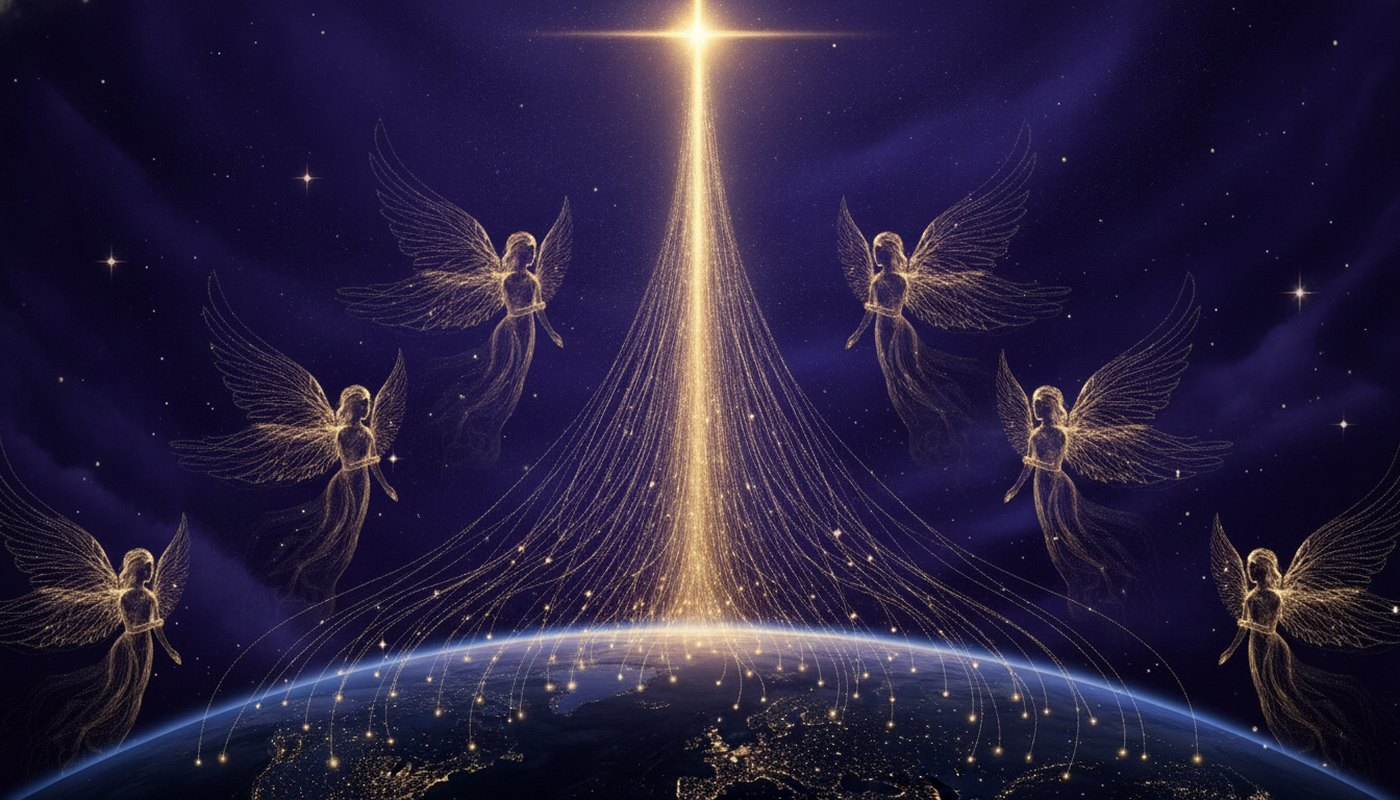
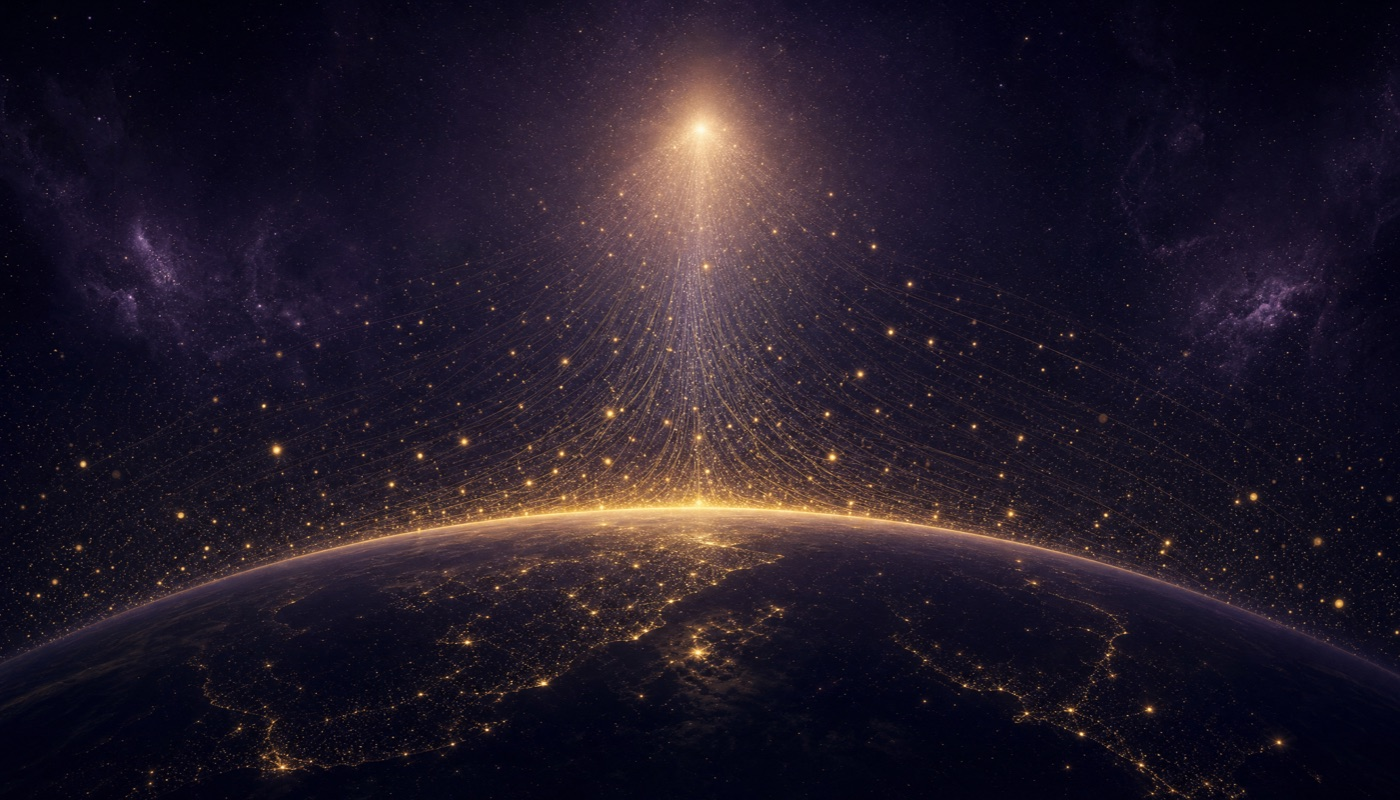
Ship pass: cinematic Voices band, CTA fix, perf, remove split
- Voices: replace cheesy angel image with cosmic source-light band; make it a cinematic background with heading + 5-star quote; tune hierarchy
- Fix offer CTA: .btn-primary inline-block so it no longer overlaps microcopy
- Remove pseudo-radio dot before .cta-micro
- Command center: collapse expert panel + GTM under avatar cards, gate films, films below build, literal rebrand header
- Remove split compare view (compare.html) + Split toggles
- Perf: static CTA shadow (no per-frame box-shadow repaint), passive rAF scroll, pause offscreen decorative animations
- Smooth the how-it-works card entrance (drop 3D flip settle-hitch)

diff --git a/command-center.html b/command-center.html
@@ -6,7 +6,7 @@
 <meta name="robots" content="noindex, nofollow" />
 <meta http-equiv="Cache-Control" content="no-cache, must-revalidate" />
 <meta http-equiv="Pragma" content="no-cache" />
-<title>Psychic Source — Redesign Command Center</title>
+<title>PsychicSource.com Rebrand — Command Center</title>
 <link href="https://fonts.googleapis.com/css2?family=Cormorant+Garamond:ital,wght@0,500;0,600;1,500;1,600&family=Jost:wght@300;400;500&display=swap" rel="stylesheet" />
 <style>
   *{margin:0;padding:0;box-sizing:border-box}
@@ -534,14 +534,50 @@
   .deckfan .dcard:hover{transform:translateY(-28px) rotate(0deg) scale(1.02)!important;box-shadow:0 24px 46px rgba(0,0,0,.6);z-index:40}
   .deck-note{text-align:center;color:var(--muted);font-size:12px;margin-top:4px}
   @media(max-width:900px){.films-grid{grid-template-columns:1fr}}
+
+  /* ---- collapsible section cards ---- */
+  .collapse-card{border:1px solid var(--faint);border-radius:18px;overflow:hidden;margin:34px 0;background:linear-gradient(165deg,rgba(245,240,230,.045),rgba(245,240,230,.01))}
+  .cc-head{width:100%;display:flex;align-items:center;gap:22px;padding:24px 26px;background:transparent;border:0;cursor:pointer;text-align:left;color:inherit;transition:background .3s}
+  .cc-head:hover{background:rgba(245,240,230,.035)}
+  .cc-avatars{display:flex;flex:none}
+  .cc-avatars img{width:48px;height:48px;border-radius:50%;object-fit:cover;object-position:center 24%;border:2px solid #191330;margin-left:-15px;box-shadow:0 2px 10px rgba(0,0,0,.45)}
+  .cc-avatars img:first-child{margin-left:0}
+  .cc-text{flex:1;min-width:0}
+  .cc-text .cc-n{font-family:var(--serif);font-size:15px;color:var(--gold)}
+  .cc-text h2{font-family:var(--serif);font-size:clamp(22px,3vw,30px);font-weight:600;color:var(--gold-bright);line-height:1.1;margin:2px 0 5px}
+  .cc-text p{font-size:13px;color:var(--muted);line-height:1.5;max-width:72ch}
+  .cc-chev{flex:none;width:40px;height:40px;border-radius:50%;border:1px solid var(--hair);display:flex;align-items:center;justify-content:center;color:var(--gold);font-size:17px;line-height:1;transition:transform .4s cubic-bezier(.22,.61,.36,1),background .3s,border-color .3s}
+  .cc-head:hover .cc-chev{background:rgba(232,207,154,.12);border-color:var(--gold)}
+  .cc-head[aria-expanded="true"] .cc-chev{transform:rotate(180deg)}
+  .cc-head[aria-expanded="false"]{position:relative}
+  .cc-head[aria-expanded="false"]::after{content:"Collapsed · tap to open";position:absolute;top:14px;right:78px;font-family:var(--sans);font-size:9.5px;letter-spacing:.14em;text-transform:uppercase;color:var(--gold);opacity:.6}
+  @media(max-width:620px){.cc-head[aria-expanded="false"]::after{display:none}}
+  .cc-body{padding:2px 26px 14px;animation:ccfade .5s ease both}
+  .cc-body[hidden]{display:none}
+  @keyframes ccfade{from{opacity:0;transform:translateY(-6px)}to{opacity:1;transform:none}}
+  @media(max-width:640px){.cc-head{flex-wrap:wrap;gap:14px}.cc-avatars img{width:40px;height:40px}.cc-body{padding-left:16px;padding-right:16px}}
+
+  /* ---- film password gate ---- */
+  .gate{position:fixed;inset:0;z-index:120;display:none;align-items:center;justify-content:center;padding:24px;background:rgba(8,6,18,.86);backdrop-filter:blur(6px)}
+  .gate.on{display:flex}
+  .gate-card{max-width:420px;width:100%;background:radial-gradient(120% 90% at 50% 0%,#241a45,#160f33);border:1px solid var(--hair);border-radius:18px;padding:36px 34px;text-align:center}
+  .gate-card .lockico{font-size:26px;color:var(--gold-bright);margin-bottom:12px}
+  .gate-card h3{font-family:var(--serif);font-size:26px;font-weight:600;color:var(--ivory);margin-bottom:8px}
+  .gate-card p{font-size:13.5px;color:var(--muted);line-height:1.6;margin-bottom:20px}
+  .gate-card input{width:100%;background:rgba(255,255,255,.05);border:1px solid var(--hair);border-radius:999px;padding:13px 20px;color:var(--ivory);font-size:15px;text-align:center;letter-spacing:.08em}
+  .gate-card input:focus{outline:none;border-color:var(--gold)}
+  .gate-row{display:flex;gap:10px;margin-top:14px}
+  .gate-btn{flex:1;border-radius:999px;padding:12px;font-size:13px;letter-spacing:.05em;cursor:pointer;border:1px solid var(--hair);background:transparent;color:var(--muted)}
+  .gate-btn.primary{background:linear-gradient(120deg,var(--gold-bright),var(--gold));border:0;color:#140f38;font-weight:600}
+  .gate-err{color:#e0736b;font-size:12px;margin-top:10px;min-height:1em}
   @media(max-width:700px){.pagegrid-4{grid-template-columns:1fr}.deckfan .dcard{width:90px;margin-left:-48px}}
 </style>
 </head>
 <body>
 <header class="top"><span class="star"></span><div class="wrap">
   <span class="eyebrow">Psychic Source · The Celestial Atelier</span>
-  <h1>A website redesign, <em>presented</em></h1>
-  <p>A luxury reimagining of psychicsource.com — step inside, or set it beside the original. Below, an AI-native review board evaluates it, and the full build is yours to explore.</p>
+  <h1>PsychicSource.com <em>rebrand</em></h1>
+  <p>A luxury reimagining of psychicsource.com. Step inside, or set it beside the original. Below, a board of AI agents modeled on leading experts in brand marketing evaluate it, an agentic CTO weighs in on the technical reality of deploying it, and the full build is yours to explore.</p>
   <div class="meta-row">
     <span class="pill"><b>17</b> pages redesigned</span>
     <span class="pill"><b>150+</b> AI-generated assets</span>
@@ -551,40 +587,50 @@
 </div></header>
 
 <div class="wrap">
-  <section class="films" id="films">
-    <div class="films-h">
-      <span class="eyebrow">The films</span>
-      <h2>Three films tell the story</h2>
-      <p>Three short films will open the presentation — a brand film, an ad, and an explainer trailer for everything that was built. These are placeholders; each carries a ready-to-use generation prompt you can copy.</p>
-    </div>
-    <div class="films-grid" id="filmsGrid"></div>
-  </section>
-
   <div class="enter-grid">
     <a class="enter-card" href="index.html">
       <div class="ec-thumb"><span class="ec-tag">The redesign</span><img src="assets/heroes/enter-thumb.jpg" alt="The redesigned Psychic Source home page" loading="lazy" /></div>
       <div class="ec-body"><div><div class="ec-t">Enter the redesign</div><div class="ec-d">Walk the full Celestial Atelier build</div></div><span class="ec-go">Open →</span></div>
     </a>
-    <a class="enter-card" href="compare.html?p=home">
+    <a class="enter-card" href="original.html?p=home">
       <div class="ec-thumb"><span class="ec-tag">Before / after</span><img src="assets/heroes/compare-thumb.jpg" alt="The original psychicsource.com beside the redesign" loading="lazy" /></div>
-      <div class="ec-body"><div><div class="ec-t">See it side by side</div><div class="ec-d">The original psychicsource.com vs the redesign</div></div><span class="ec-go">Compare →</span></div>
+      <div class="ec-body"><div><div class="ec-t">See the original</div><div class="ec-d">The live psychicsource.com, with a toggle back to the redesign</div></div><span class="ec-go">View →</span></div>
     </a>
   </div>
 </div>
 
 <nav class="sticky"><div class="in">
-  <a href="#panel">The Expert Panel</a><a href="#build">The Build</a>
+  <a href="#panel">The Expert Panel</a><a href="#gtmCard">Go-To-Market</a><a href="#build">The Build</a>
 </div></nav>
 
 <div class="wrap">
-  <div class="pillar" id="panel">
-    <div class="pillar-h"><span class="pn">01</span><h2>The Expert Panel</h2></div>
-    <p class="pillar-sub">An AI-native review board evaluating the redesign — the market it serves, the craft behind it, and whether it is ready to replace the live site.</p>
+  <div class="collapse-card" id="panel">
+    <button class="cc-head" type="button" aria-expanded="false" aria-controls="panelBody" data-collapse>
+      <div class="cc-avatars">
+        <img src="assets/experts/the-aesthete.jpg" alt="" loading="lazy" /><img src="assets/experts/the-alchemist.jpg" alt="" loading="lazy" /><img src="assets/experts/the-architect.jpg" alt="" loading="lazy" /><img src="assets/experts/the-herald.jpg" alt="" loading="lazy" /><img src="assets/experts/the-prospector.jpg" alt="" loading="lazy" /><img src="assets/experts/the-shepherd.jpg" alt="" loading="lazy" />
+      </div>
+      <div class="cc-text"><span class="cc-n">01</span><h2>The Expert Panel</h2><p>An AI-native review board evaluating the redesign — the market it serves, the craft behind it, and whether it is ready to replace the live site. Tap to open.</p></div>
+      <span class="cc-chev" aria-hidden="true">▾</span>
+    </button>
+    <div class="cc-body" id="panelBody" hidden>
     <section id="overview"><div class="sec-h"><span class="n">01</span><h2>Overview</h2></div><p class="sec-sub">The verdict at a glance, scored by the review board.</p><div id="overviewBody" class="loading">Loading the review board…</div></section>
   <section id="research"><div class="sec-h"><span class="n">02</span><h2>Market Research &amp; User Personas</h2></div><p class="sec-sub">We started with who this is for. We sized the U.S. psychic-services market and broke it into the ten segments that actually drive it, the reasons people reach out. For each segment we built a researched user persona, then ran that persona as an autonomous agent that walked the redesign in character and reacted honestly: what drew it in, what gave it pause, what would make it pick up the phone. We refined the work against those reactions until all ten would convert. The market told us who to build for. The personas told us when we had earned them.</p><div id="researchBody" class="loading">Loading the research agents…</div></section>
-  <section id="gtm"><div class="sec-h"><span class="n">03</span><h2>Go-To-Market</h2></div><p class="sec-sub">The same market and the same personas, turned into a plan to win them. This is a generated go-to-market strategy: the funnel, a 30/60/90-day sequence of tests and campaigns, and a panel of GTM experts. Open any expert for the full playbook.</p><div id="gtmBody" class="loading">Loading the plan…</div></section>
-  <section id="experts"><div class="sec-h"><span class="n">04</span><h2>Expert readings — Brand &amp; Conversion</h2></div><p class="sec-sub">Where the personas are the market, the panel is the craft: a world-class luxury brand expert and an AI-native conversion strategist. Here is each expert's reading at a glance — open a card for the full report, with cited, verified sources.</p><div id="expertsBody" class="loading">Loading experts…</div></section>
-  <section id="cto"><div class="sec-h"><span class="n">05</span><h2>CTO — Should this replace the live site?</h2></div><p class="sec-sub">A pragmatic assessment of the risk and technical expense of adopting this build to replace psychicsource.com — the migration and the ongoing operations — and whether it's worth it.</p><div id="ctoBody" class="loading">Loading assessment…</div></section>
+  <section id="experts"><div class="sec-h"><span class="n">03</span><h2>Expert readings — Brand &amp; Conversion</h2></div><p class="sec-sub">Where the personas are the market, the panel is the craft: a world-class luxury brand expert and an AI-native conversion strategist. Here is each expert's reading at a glance — open a card for the full report, with cited, verified sources.</p><div id="expertsBody" class="loading">Loading experts…</div></section>
+  <section id="cto"><div class="sec-h"><span class="n">04</span><h2>CTO — Should this replace the live site?</h2></div><p class="sec-sub">A pragmatic assessment of the risk and technical expense of adopting this build to replace psychicsource.com — the migration and the ongoing operations — and whether it's worth it.</p><div id="ctoBody" class="loading">Loading assessment…</div></section>
+    </div>
+  </div>
+
+  <div class="collapse-card" id="gtmCard">
+    <button class="cc-head" type="button" aria-expanded="false" aria-controls="gtmBodyWrap" data-collapse>
+      <div class="cc-avatars">
+        <img src="assets/personas/grace.jpg" alt="" loading="lazy" /><img src="assets/personas/hannah.jpg" alt="" loading="lazy" /><img src="assets/personas/dana.jpg" alt="" loading="lazy" /><img src="assets/personas/wendy.jpg" alt="" loading="lazy" /><img src="assets/personas/sofia.jpg" alt="" loading="lazy" /><img src="assets/personas/carla.jpg" alt="" loading="lazy" /><img src="assets/personas/sam.jpg" alt="" loading="lazy" />
+      </div>
+      <div class="cc-text"><span class="cc-n">02</span><h2>Go-To-Market</h2><p>The same market and the same customer personas, turned into a plan to win them: the funnel, a 30/60/90-day sequence, and a panel of GTM experts. Tap to open.</p></div>
+      <span class="cc-chev" aria-hidden="true">▾</span>
+    </button>
+    <div class="cc-body" id="gtmBodyWrap" hidden>
+      <section id="gtm"><div class="sec-h"><span class="n">01</span><h2>Go-To-Market</h2></div><p class="sec-sub">The same market and the same personas, turned into a plan to win them. This is a generated go-to-market strategy: the funnel, a 30/60/90-day sequence of tests and campaigns, and a panel of GTM experts. Open any expert for the full playbook.</p><div id="gtmBody" class="loading">Loading the plan…</div></section>
+    </div>
   </div>
 
   <div class="pillar" id="build">
@@ -638,9 +684,32 @@
       </div>
     </div>
   </div>
+
+  <section class="films" id="films">
+    <div class="films-h">
+      <span class="eyebrow">The films</span>
+      <h2>Three films tell the story</h2>
+      <p>Three short films open the presentation — a brand film, an ad, and an explainer trailer for everything that was built. These are placeholders; each carries a ready-to-use generation prompt you can copy. <span style="color:var(--gold-bright)">The films are password protected.</span></p>
+    </div>
+    <div class="films-grid" id="filmsGrid"></div>
+  </section>
 </div>
 
 <div class="lb" id="lightbox"><span class="lb-close" id="lbClose">&times;</span><div class="lb-inner" id="lbInner"></div></div>
+
+<div class="gate" id="filmGate">
+  <div class="gate-card">
+    <div class="lockico">🔒</div>
+    <h3>The films are protected</h3>
+    <p>These films are held behind a passphrase for now. Enter it to watch.</p>
+    <input id="gatePw" type="password" placeholder="Passphrase" autocomplete="off" aria-label="Film passphrase" />
+    <div class="gate-err" id="gateErr"></div>
+    <div class="gate-row">
+      <button class="gate-btn" id="gateCancel" type="button">Cancel</button>
+      <button class="gate-btn primary" id="gateOk" type="button">Unlock</button>
+    </div>
+  </div>
+</div>
 
 <footer class="end"><div class="wrap">Psychic Source — Celestial Atelier redesign · Internal review dashboard · Prototype, not affiliated with the live site's production systems.</div></footer>
 
@@ -901,7 +970,7 @@ im('assets/angel-wings.jpg','Winged figure'),im('assets/rise/wing-texture.jpg','
     var pimg=E('img');pimg.src=f.poster;pimg.alt=f.t;pimg.loading='lazy';pos.appendChild(pimg);
     pos.appendChild(T('span','film-badge',(f.video?'Film · ':'Placeholder · ')+f.tag));
     var play=E('div','film-play');play.appendChild(frag('<svg viewBox="0 0 24 24"><path d="M8 5v14l11-7z"/></svg>'));pos.appendChild(play);
-    if(f.video){pos.style.cursor='pointer';pos.title='Play '+f.t;pos.onclick=function(){var v=E('video','lb-video');v.src=f.video;v.controls=true;v.autoplay=true;v.setAttribute('playsinline','');lbOpen(v);};}
+    if(f.video){pos.style.cursor='pointer';pos.title='Play '+f.t;pos.onclick=function(){var play=function(){var v=E('video','lb-video');v.src=f.video;v.controls=true;v.autoplay=true;v.setAttribute('playsinline','');lbOpen(v);};if(window.requestFilmAccess)window.requestFilmAccess(play);else play();};}
     pos.appendChild(T('span','film-dur',f.dur));
     card.appendChild(pos);
     var body=E('div','film-body');
@@ -1432,6 +1501,61 @@ im('assets/angel-wings.jpg','Winged figure'),im('assets/rise/wing-texture.jpg','
 
   renderReview();
   if(window.__renderGTM)window.__renderGTM();
+})();
+</script>
+
+<script>
+(function(){
+  /* ---- collapsible section cards ---- */
+  document.querySelectorAll('[data-collapse]').forEach(function(head){
+    head.addEventListener('click', function(){
+      var body = document.getElementById(head.getAttribute('aria-controls'));
+      if(!body) return;
+      var open = body.hasAttribute('hidden');
+      if(open){ body.removeAttribute('hidden'); head.setAttribute('aria-expanded','true'); }
+      else { body.setAttribute('hidden',''); head.setAttribute('aria-expanded','false'); }
+    });
+  });
+  // if the page loads with a hash pointing at a collapsed card, open it
+  function openFromHash(){
+    var id = location.hash.slice(1); if(!id) return;
+    var head = document.querySelector('#'+CSS.escape(id)+' .cc-head[data-collapse]');
+    if(head && head.getAttribute('aria-expanded') !== 'true') head.click();
+  }
+  window.addEventListener('hashchange', openFromHash);
+  openFromHash();
+
+  /* ---- film password gate (soft block) ---- */
+  var FILM_PW = 'source';   // placeholder passphrase; not real security
+  var gate = document.getElementById('filmGate');
+  var pw = document.getElementById('gatePw');
+  var err = document.getElementById('gateErr');
+  var pendingPlay = null;
+  function unlocked(){ try{ return sessionStorage.getItem('ps_films_unlocked')==='1'; }catch(e){ return false; } }
+  window.requestFilmAccess = function(onOk){
+    if(unlocked()){ onOk(); return; }
+    pendingPlay = onOk;
+    err.textContent=''; pw.value='';
+    gate.classList.add('on');
+    setTimeout(function(){ pw.focus(); }, 60);
+  };
+  function tryUnlock(){
+    if(pw.value.trim().toLowerCase() === FILM_PW){
+      try{ sessionStorage.setItem('ps_films_unlocked','1'); }catch(e){}
+      gate.classList.remove('on');
+      var p = pendingPlay; pendingPlay = null;
+      if(p) p();
+    } else {
+      err.textContent = 'That passphrase is not right.';
+      pw.focus(); pw.select();
+    }
+  }
+  function closeGate(){ gate.classList.remove('on'); pendingPlay = null; }
+  document.getElementById('gateOk').addEventListener('click', tryUnlock);
+  document.getElementById('gateCancel').addEventListener('click', closeGate);
+  pw.addEventListener('keydown', function(e){ if(e.key==='Enter') tryUnlock(); });
+  gate.addEventListener('click', function(e){ if(e.target===gate) closeGate(); });
+  document.addEventListener('keydown', function(e){ if(e.key==='Escape' && gate.classList.contains('on')) closeGate(); });
 })();
 </script>
 </body>

diff --git a/index.html b/index.html
@@ -188,17 +188,17 @@
   .btn-primary{
     font-size:13px;letter-spacing:.18em;text-transform:uppercase;color:var(--ink);
     background:linear-gradient(135deg,var(--gold-bright),var(--gold));
-    padding:18px 38px;border-radius:2px;text-decoration:none;font-weight:400;position:relative;overflow:hidden;
+    padding:18px 38px;border-radius:2px;text-decoration:none;font-weight:400;position:relative;overflow:hidden;display:inline-block;
     transition:transform .4s var(--ease),box-shadow .4s;
   }
   .btn-primary:hover{transform:translateY(-3px);box-shadow:0 16px 40px -10px rgba(201,168,106,.6);filter:brightness(1.05) saturate(1.05)}
   /* CTA polish: material highlight + breathing glow */
-  .btn-primary,.nav-cta{animation:ctaBreath 3.8s ease-in-out infinite}
+  .btn-primary,.nav-cta{box-shadow:0 10px 30px -12px rgba(201,168,106,.5)}
+  /* perf: freeze decorative animation in offscreen sections */
+  .anim-off,.anim-off *{animation-play-state:paused!important}
   @keyframes ctaBreath{0%,100%{box-shadow:0 8px 24px -12px rgba(201,168,106,.5)}50%{box-shadow:0 13px 40px -8px rgba(232,207,154,.72)}}
   .btn-primary::after{content:"";position:absolute;inset:0;border-radius:inherit;pointer-events:none;background:linear-gradient(180deg,rgba(255,255,255,.34),rgba(255,255,255,0) 46%);mix-blend-mode:soft-light}
-  .cta-micro::before{content:"";width:6px;height:6px;border-radius:50%;background:var(--gold-bright);box-shadow:0 0 0 0 rgba(232,207,154,.6);animation:microPulse 2.4s ease-out infinite}
-  @keyframes microPulse{0%{box-shadow:0 0 0 0 rgba(232,207,154,.55)}70%{box-shadow:0 0 0 7px rgba(232,207,154,0)}100%{box-shadow:0 0 0 0 rgba(232,207,154,0)}}
-  @media(prefers-reduced-motion:reduce){.btn-primary,.nav-cta,.cta-micro::before{animation:none}}
+  @media(prefers-reduced-motion:reduce){.btn-primary,.nav-cta{animation:none}}
   .btn-text{
     font-size:13px;letter-spacing:.16em;text-transform:uppercase;color:var(--ivory);text-decoration:none;
     display:flex;align-items:center;gap:10px;transition:gap .4s var(--ease),color .4s;
@@ -434,8 +434,16 @@
   .quote{font-family:var(--serif);font-size:clamp(26px,3.4vw,40px);font-weight:400;font-style:italic;line-height:1.4;max-width:880px;margin:0 auto 34px}
   .quote-by{font-size:12px;letter-spacing:.22em;text-transform:uppercase;color:var(--gold)}
   .quote-stars{color:var(--gold);letter-spacing:4px;margin-bottom:24px;font-size:14px}
-  .voices-visual{position:relative;max-width:1060px;margin:40px auto 8px;overflow:hidden;-webkit-mask-image:linear-gradient(180deg,transparent 0,#000 9%,#000 90%,transparent 100%);mask-image:linear-gradient(180deg,transparent 0,#000 9%,#000 90%,transparent 100%)}
-  .voices-visual img{width:100%;display:block}
+  .voices-cine{position:relative;border-radius:20px;overflow:hidden;min-height:600px;display:flex;align-items:center;justify-content:center;text-align:center;padding:90px 26px;margin:8px 0 56px;isolation:isolate;border:1px solid var(--hair)}
+  .voices-cine::before{content:"";position:absolute;inset:0;z-index:-2;background:url('assets/heroes/voices-seekers.jpg') center 44%/cover no-repeat;transform:scale(1.03)}
+  .voices-cine::after{content:"";position:absolute;inset:0;z-index:-1;background:linear-gradient(180deg,rgba(15,11,40,.80) 0%,rgba(15,11,40,.30) 26%,rgba(15,11,40,.32) 60%,rgba(15,11,40,.88) 100%)}
+  .voices-cine .vc-inner{position:relative;max-width:820px}
+  .voices-cine .vc-inner::before{content:"";position:absolute;inset:-56px -44px;z-index:-1;background:radial-gradient(ellipse at center,rgba(13,9,34,.60),rgba(13,9,34,0) 70%)}
+  .voices-cine .eyebrow{color:var(--gold-bright)}
+  .voices-cine h2{color:var(--ivory);font-size:clamp(30px,3.6vw,50px);line-height:1.08;margin-bottom:24px;text-shadow:0 2px 34px rgba(0,0,0,.6)}
+  .voices-cine .quote-stars{margin-bottom:16px;font-size:13px}
+  .voices-cine .quote{font-size:clamp(17px,1.8vw,24px);line-height:1.55;max-width:640px;margin:0 auto 20px;text-shadow:0 2px 24px rgba(0,0,0,.55)}
+  @media(max-width:640px){.voices-cine{min-height:520px;padding:64px 20px}}
   .pom-grid{display:grid;grid-template-columns:repeat(4,1fr);gap:18px;margin-top:8px}
   .pom-card{border:1px solid var(--faint);border-radius:14px;padding:28px 24px;background:linear-gradient(165deg,rgba(245,240,230,.05),rgba(245,240,230,.012))}
   .pom-card .pi{color:var(--gold);margin-bottom:16px;display:block}
@@ -905,13 +913,14 @@
 <section id="voices" class="ritual sec-pad">
   <div class="starscape" aria-hidden="true"></div>
   <div class="wrap">
-    <div class="sec-head center reveal"><span class="eyebrow">Voices</span><h2>Trusted by a million seekers</h2></div>
-    <div class="voices-visual reveal" aria-hidden="true"><img src="assets/heroes/voices-seekers.jpg" alt="" loading="lazy" /></div>
-    <div class="quote-sec reveal">
-      <div class="quote-mark">"</div>
-      <div class="quote-stars">★★★★★</div>
-      <p class="quote">They tell the truth, even when it isn't what you want to hear. Kind, caring people who genuinely want the best for you.</p>
-      <div class="quote-by">Sharon · verified member</div>
+    <div class="voices-cine reveal">
+      <div class="vc-inner">
+        <span class="eyebrow">Voices</span>
+        <h2>Trusted by millions of seekers</h2>
+        <div class="quote-stars">★★★★★</div>
+        <p class="quote">They tell the truth, even when it isn't what you want to hear. Kind, caring people who genuinely want the best for you.</p>
+        <div class="quote-by">Sharon · verified member</div>
+      </div>
     </div>
     <div class="voice-pair">
       <blockquote class="vp reveal" data-d="1">
@@ -1023,10 +1032,24 @@
 <script>
   const hdr=document.getElementById('hdr');
   const fc=document.getElementById('floatCta');
+  let _scrollQueued=false;
   addEventListener('scroll',()=>{
-    hdr.classList.toggle('scrolled',scrollY>40);
-    fc.classList.toggle('show',scrollY>innerHeight*.9);
-  });
+    if(_scrollQueued)return;_scrollQueued=true;
+    requestAnimationFrame(()=>{
+      hdr.classList.toggle('scrolled',scrollY>40);
+      fc.classList.toggle('show',scrollY>innerHeight*.9);
+      _scrollQueued=false;
+    });
+  },{passive:true});
+  // perf: pause decorative CSS animations while a section is offscreen
+  (function(){
+    var secs=document.querySelectorAll('section');
+    if(!('IntersectionObserver' in window)||!secs.length)return;
+    var po=new IntersectionObserver(function(es){
+      es.forEach(function(e){e.target.classList.toggle('anim-off',!e.isIntersecting);});
+    },{rootMargin:'240px 0px'});
+    secs.forEach(function(s){po.observe(s);});
+  })();
   // mobile menu
   (function(){
     const b=document.getElementById('burger'),m=document.getElementById('mobileMenu');
@@ -1187,9 +1210,9 @@
     // Generic reveal → fade/drift up (replaces the CSS reveal while GSAP is on)
     ScrollTrigger.batch('.reveal:not(.adv-card):not(.step)', {start:'top 88%',
       onEnter:b=>gsap.from(b,{opacity:0,y:28,duration:.85,ease:'power3.out',stagger:.09,overwrite:true})});
-    // tarot cards: subtle 3D flip + lift as they arrive
+    // tarot cards: smooth fade + lift as they arrive (no 3D flip → no settle-hitch)
     ScrollTrigger.batch('.steps .step', {start:'top 85%',
-      onEnter:b=>gsap.from(b,{opacity:0,y:52,rotationY:-22,rotationX:9,transformOrigin:'center center',transformPerspective:1000,duration:1.05,ease:'power3.out',stagger:.16,overwrite:true})});
+      onEnter:b=>gsap.from(b,{opacity:0,y:48,duration:1,ease:'power3.out',stagger:.14,overwrite:true,force3D:true})});
 
     // Headlines coalesce out of the glow, char by char, from the center
     if(typeof SplitType!=='undefined'){
@@ -1223,7 +1246,6 @@
   <span class="ab-div"></span>
   <div class="ab-grp">
     <a class="ab-btn" data-mode="redesign">Redesign</a>
-    <a class="ab-btn" data-mode="split">Split</a>
     <a class="ab-btn" data-mode="original">Original</a>
   </div>
 </div>

diff --git a/advisors.html b/advisors.html
@@ -1983,7 +1983,6 @@
   <span class="ab-div"></span>
   <div class="ab-grp">
     <a class="ab-btn" data-mode="redesign">Redesign</a>
-    <a class="ab-btn" data-mode="split">Split</a>
     <a class="ab-btn" data-mode="original">Original</a>
   </div>
 </div>

diff --git a/original.html b/original.html
@@ -34,7 +34,6 @@
     <span class="ab-div"></span>
     <div class="ab-grp">
       <a class="ab-btn" data-mode="redesign">Redesign</a>
-      <a class="ab-btn" data-mode="split">Split</a>
       <a class="ab-btn" data-mode="original">Original</a>
     </div>
   </div>